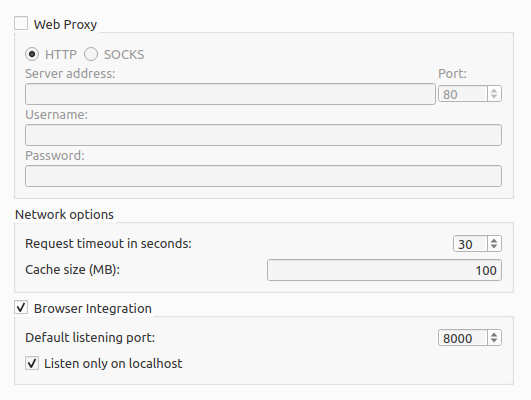
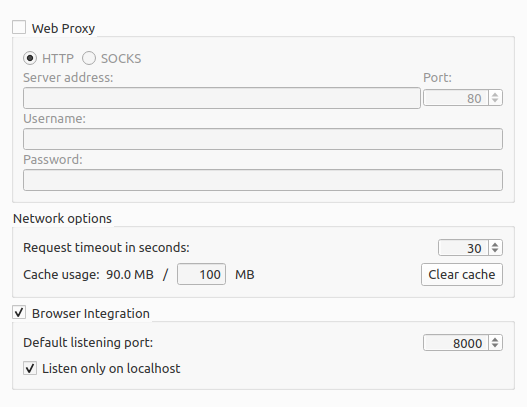
Update documentation to match changes to network options page

diff --git a/config/options_network.rst b/config/options_network.rst
@@ -24,9 +24,9 @@ These settings allow you to configure the network settings used by Picard.
 
    By default Picard will abort running network requests after 30 seconds of inactivity. If needed you can change the timeout period here.
 
-**Cache size (MB)**
+**Cache usage**
 
-   Size in MB of the on-disk cache for network requests.
+   This displays the size of the on-disk cache currently in use for network requests, and the user-defined maximum size in MB of the cache available. There is also a button provided to clear all locally cached network requests.
 
 .. |lookup_tagger| image:: images/mblookup-tagger.png
    :height: 1em